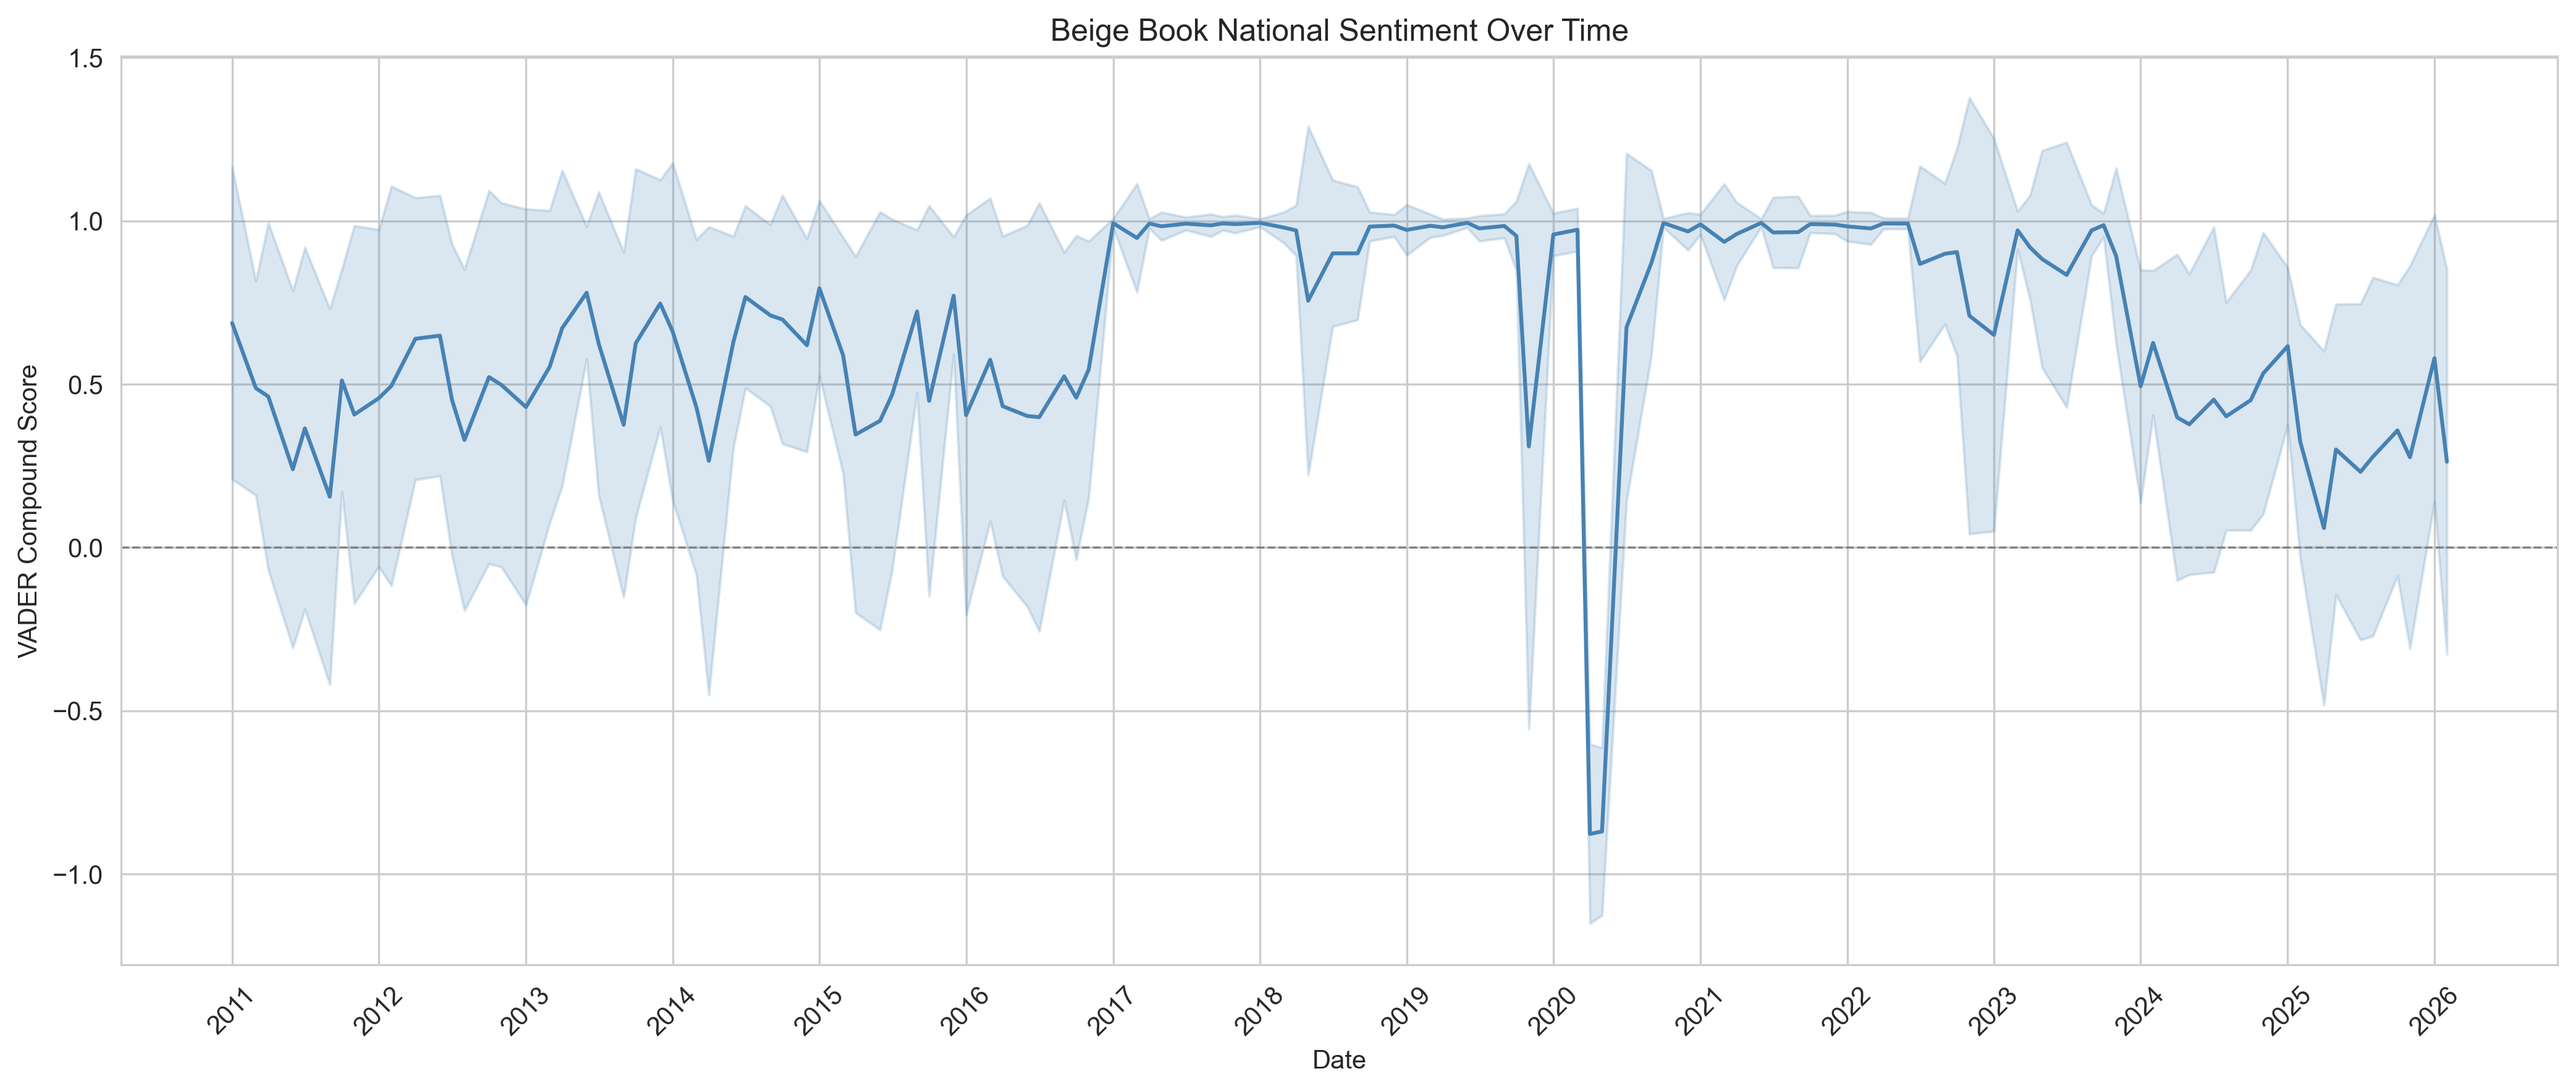
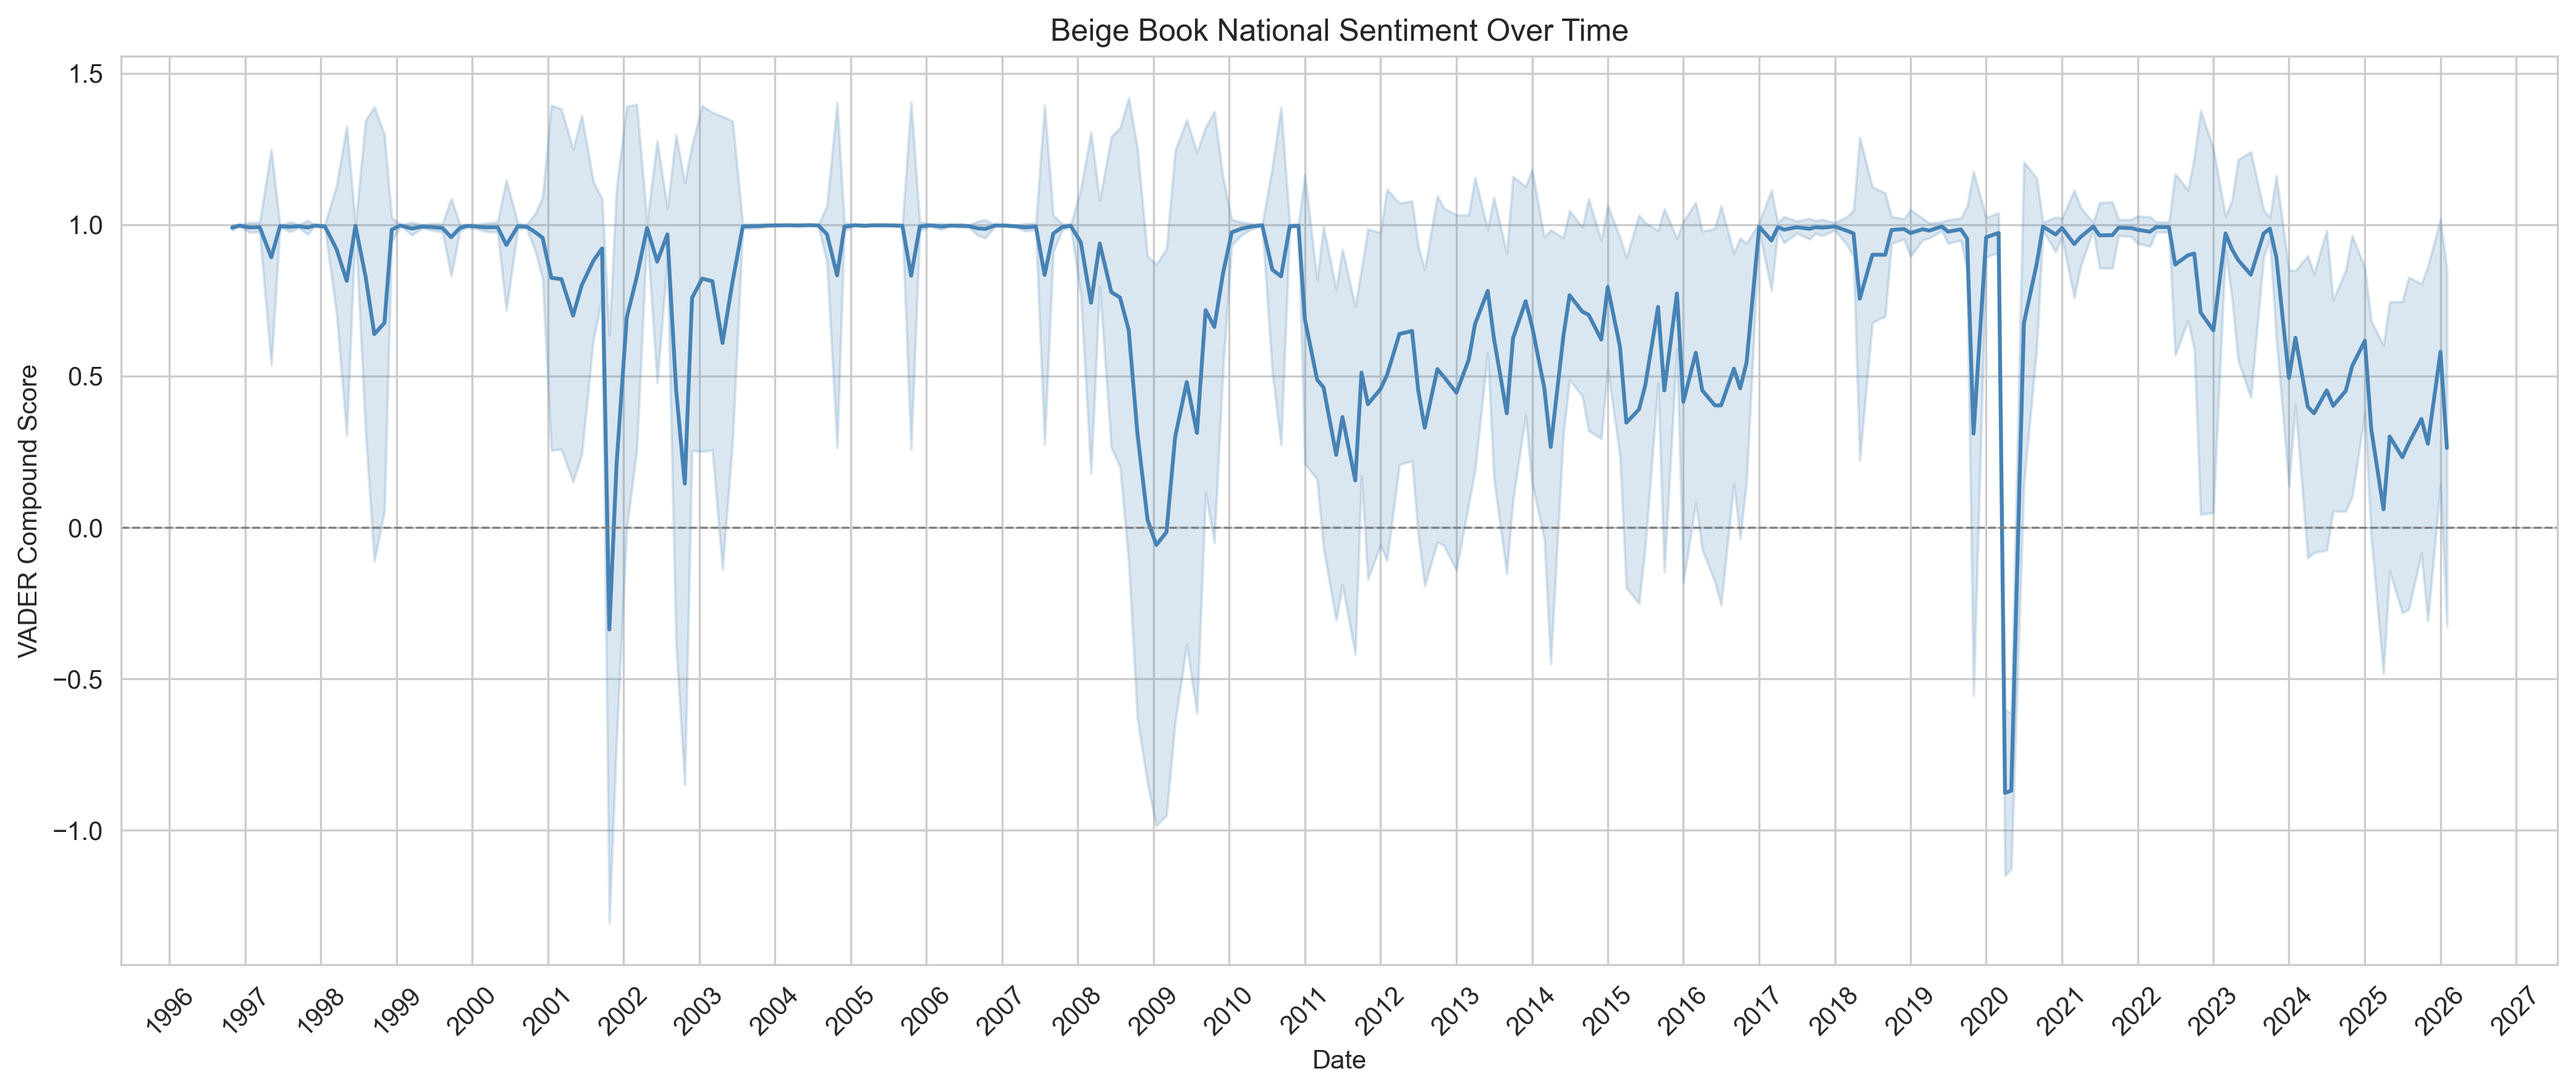
Update results for 1996-2026 dataset (235 reports, 3 recessions)
Unemployment signal holds: r=-0.57 (p<0.0001) with Granger at lags 2-4
across 30 years and three recessions (2001, 2008, 2020).

diff --git a/README.md b/README.md
@@ -1,12 +1,12 @@
 # Does the Federal Reserve's Beige Book Predict the Economy?
 
-A quantitative study of whether narrative economic intelligence from the 12 Federal Reserve district banks contains leading information for macroeconomic indicators. Covers 1,464 district-level summaries and 10,728 sector-level paragraphs across 122 Beige Book reports (2011--2026).
+A quantitative study of whether narrative economic intelligence from the 12 Federal Reserve district banks contains leading information for macroeconomic indicators. Covers 2,820 district-level summaries and 10,728 sector-level paragraphs across 235 Beige Book reports (1996--2026), spanning three recessions (2001, 2008, 2020).
 
 ## Overview
 
 Eight times per year, the Federal Reserve publishes its Summary of Commentary on Current Economic Conditions -- the Beige Book. Each of the 12 district banks compiles qualitative assessments from business contacts, bankers, and labor market participants within its region. These narratives are widely read by market participants and policymakers, yet their informational content remains difficult to quantify. If the Beige Book captures real-time economic conditions through the eyes of front-line decision-makers, its tone should contain leading information for hard economic data released weeks or months later.
 
-This project tests that hypothesis directly. We scrape the full text of every district-level Beige Book summary published between 2011 and 2026, score each using VADER sentiment analysis (validated against two transformer-based alternatives), and assess predictive power for four national economic indicators:
+This project tests that hypothesis directly. We scrape the full text of every district-level Beige Book summary published between 1996 and 2026 — covering 30 years that include the dot-com bust, the 2008 financial crisis, and COVID-19 — score each using VADER sentiment analysis (validated against two transformer-based alternatives), and assess predictive power for four national economic indicators:
 
 | FRED Series | Indicator | Frequency |
 |-------------|-----------|-----------|
@@ -160,7 +160,7 @@ The pipeline runs nine steps sequentially: data acquisition (scraping + FRED API
 
 | Step | Module | Description |
 |------|--------|-------------|
-| 1. Acquire | `src/acquire.py` | Scrapes Beige Book reports from federalreserve.gov (2011--2026) and fetches indicator series from the FRED API |
+| 1. Acquire | `src/acquire.py` | Scrapes Beige Book reports from federalreserve.gov (1996--2026) and fetches indicator series from the FRED API |
 | 2. Prepare | `src/prepare.py` | Cleans text, normalizes district names, and aligns Beige Book dates to FRED reporting periods via `merge_asof(direction='forward')` |
 | 3. Sentiment | `src/sentiment.py` | Scores each district summary with VADER compound sentiment |
 | 4. Aggregate | `src/prepare.py` | Computes national sentiment aggregates (mean and standard deviation across 12 districts) and merges with FRED data |
@@ -216,7 +216,7 @@ Several caveats temper the conclusions drawn above.
 
 ## Robustness Checks
 
-We run four robustness checks to address common confounds in economic text analysis. The full suite is implemented in `src/robustness.py` and executes as Step 9 of the pipeline.
+We run four robustness checks to address common confounds in economic text analysis. The full suite is implemented in `src/robustness.py` and executes as Step 10 of the pipeline. All results below are from the full 1996--2026 sample (235 reports, n = 232 after alignment).
 
 ### Unit Root Tests (ADF)
 
@@ -224,26 +224,26 @@ Augmented Dickey-Fuller tests determine whether each series is stationary. Corre
 
 | Series | ADF Statistic | p-value | Stationary? |
 |--------|--------------|---------|-------------|
-| Sentiment (mean) | -3.215 | 0.019 | Yes |
-| Unemployment | -3.346 | 0.013 | Yes |
-| GDP | +0.176 | 0.971 | No |
-| CPI | +2.022 | 0.999 | No |
+| Sentiment (mean) | -4.388 | 0.0003 | Yes |
+| Unemployment | -2.539 | 0.106 | No (borderline) |
+| GDP | -0.674 | 0.853 | No |
+| CPI | +2.448 | 0.999 | No |
 | S&P 500 | +0.494 | 0.985 | No |
 
-Sentiment and unemployment are both I(0), so level-based correlations between them are valid. GDP, CPI, and S&P 500 are I(1), meaning level-based results for those indicators should be interpreted with caution.
+With the extended sample, sentiment remains clearly stationary but unemployment is now borderline non-stationary (p = 0.106). All first-differenced series are stationary (p < 0.0001), making the differenced analysis below the appropriate specification.
 
 ### First-Differenced Analysis
 
 To address common trend bias, we re-run all correlations and Granger tests on first-differenced series (change in sentiment vs. change in indicator):
 
-| Indicator | Levels r | Differenced r (lag 0) | Granger (differenced) |
-|-----------|---------|----------------------|----------------------|
-| **Unemployment** | -0.59 | **-0.70** | Yes (lags 2--4) |
-| **CPI** | 0.05 | +0.22 | Yes (lags 2--3) |
-| **S&P 500** | -0.28 | -0.04 | No |
-| **GDP** | 0.15 | Insufficient obs. | Insufficient obs. |
+| Indicator | Differenced r (lag 0) | p-value | Granger (differenced) |
+|-----------|----------------------|---------|----------------------|
+| **Unemployment** | **-0.57** | < 0.0001 | Yes (lags 2--4) |
+| **CPI** | +0.19 | 0.004 | Yes (lag 2) |
+| **S&P 500** | -0.04 | 0.74 | No |
+| **GDP** | Insufficient obs. | -- | Insufficient obs. |
 
-The unemployment result **strengthens** after differencing (r = -0.70 vs. -0.59), confirming that changes in Beige Book tone predict changes in unemployment -- not merely a shared trend. CPI retains a weaker but significant signal. The S&P 500 correlation disappears entirely, confirming it was trend-driven.
+The unemployment result holds with 235 observations (r = -0.57, p < 0.0001) and Granger-causes at lags 2--4, confirming that changes in Beige Book tone predict changes in unemployment across three decades and three recessions. CPI retains a weaker but significant signal at lag 0. The S&P 500 correlation is effectively zero, confirming it was trend-driven.
 
 ### Exclude-COVID Out-of-Sample
 
@@ -251,9 +251,9 @@ We re-run the out-of-sample evaluation excluding the COVID period (March 2020 --
 
 | Indicator | Baseline RMSE | Sentiment RMSE | Improvement |
 |-----------|--------------|----------------|-------------|
-| **Unemployment** | 0.2104 | 0.2098 | +0.0006 |
-| **CPI** | 1.8707 | 1.7400 | +0.1307 |
-| **S&P 500** | 437.17 | 672.82 | -235.66 |
+| **Unemployment** | 0.2191 | 0.2162 | +0.0029 |
+| **CPI** | 1.7032 | 1.5553 | +0.1479 |
+| **S&P 500** | 437.17 | 670.41 | -233.25 |
 
 Both unemployment and CPI show improvement even after removing the COVID shock from the test set. The S&P 500 model degrades, consistent with no genuine predictive signal.
 
